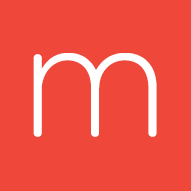
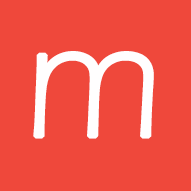
**UNSTABLE** Commit 15/08/04 - 更新了favicon - 更新了滑板车页面的部分内容 - 替换了导航栏、产品页2处深色背景灰 - 替换了部分使用的图片

diff --git a/public/huanbanche.html b/public/huanbanche.html
@@ -1,5 +1,41 @@
-{{> header }}
-<style type="text/css">
+<!DOCTYPE html>
+<html data-ember-extension="1">
+<head>
+	<meta http-equiv="Content-Type" content="text/html; charset=UTF-8">
+	<meta charset="utf-8">
+  <meta http-equiv="X-UA-Compatible" content="IE=edge">
+  <meta name="viewport" content="width=device-width, initial-scale=1">
+  <title>M.O.V.E-在脚下，不经意加速你的路途</title>
+	<link rel="stylesheet" type="text/css" href="stylesheets/bootstrap.min.css">
+	<link rel="stylesheet" type="text/css" href="stylesheets/jquery-ui.min.css">
+	<link rel="stylesheet" type="text/css" href="stylesheets/main.css">
+	<script type="text/javascript" src="javascripts/jquery-1.11.1.min.js"></script>
+	<script type="text/javascript" src="javascripts/jquery-ui.min.js"></script>
+	<script type="text/javascript" src="javascripts/bootstrap.min.js"></script>
+	<script type="text/javascript" src="javascripts/main.js"></script>	
+</head>
+<body>
+	<nav class="navbar navbar-default">
+	  <div class="container">
+	    <div class="navbar-header">
+	      <button type="button" class="navbar-toggle collapsed" data-toggle="collapse" data-target="#bs-example-navbar-collapse-1">
+	        <span class="sr-only">Toggle navigation</span>
+	        <span class="icon-bar"></span>
+	        <span class="icon-bar"></span>
+	        <span class="icon-bar"></span>
+	      </button>
+	      <a class="navbar-brand" href="http://127.0.0.1:3000/"></a>
+	    </div>
+	    <div class="collapse navbar-collapse" id="bs-example-navbar-collapse-1">
+	      <ul class="nav navbar-nav">
+	        <li><a href="./huanbanche_files/huanbanche.html">滑板车</a></li>
+	        <li><a href="http://127.0.0.1:3000/about">团队</a></li>
+	        <li><a href="http://127.0.0.1:3000/contact">联系我们</a></li>
+	      </ul>
+	    </div><!-- /.navbar-collapse -->
+	  </div><!-- /.container-fluid -->
+	</nav>
+	<div class="page-wrap"><style type="text/css">
 	.navbar-secondary .btn .plus{
 		padding: 8px;
 		background: url("/images/plus.png") 5px 12px no-repeat;
@@ -70,8 +106,8 @@
 	.article#article-4>.container{
 		padding-top: 105px;
 		padding-top: 7rem;
-		padding-bottom: 360px;
-		padding-bottom: 24rem;
+		padding-bottom: 240px;
+		padding-bottom: 16rem;
 	}
 	.article#article-4 p{
 		margin-top: 5px;
@@ -108,8 +144,7 @@
 		color: #fff;
 	}
 	.article#article-6 .bg .foreground{
-		background-color: rgba(48,52,59,0.95);
-		background-color: #30343b;
+		background-color: #333;
 	}
 	.article#article-7 .container{
 		padding-top: 75px;
@@ -166,8 +201,7 @@
 		color: #fff;
 	}
 	.article#article-8 .bg .foreground{
-		background-color: rgba(48,52,59,0.95);
-		background-color: #30343b;
+		background-color: #333;
 	}
 	.article#article-8 .bg .foreground .row .col-md-6, .article#article-6 .bg .foreground .row{
 		height: 100%;
@@ -215,17 +249,18 @@
 <div class="main">
 	<div class="article" id="jumbotron">
 		<div class="bg">
-			<img class="background" src="images/k1-jumbo.jpg"/>
+			<img class="background" src="./huanbanche_files/k1-jumbo.jpg" style="height: 777px; width: 1866px; left: -293px; top: -0.5px; display: inline;">
 			<div class="foreground"></div>
 			<div class="bg-items"></div>
 		</div>
 		<div class="container">
 			<div class="row">
-				<div class="col-md-5 col-md-offset-7">
+				<div class="col-md-6 col-md-offset-5">
 					<div class="title">
-						<h1>K1滑板车</h1>
-						<h4>从人的角度研发</h4>
+						<h1><strong>K1</strong>滑板车，从代驾的角度研发</h1>
 					</div>
+					<div class="divider"></div>
+					<p>短途代步，可携带上下班</p>
 				</div> 
 			</div>
 		</div>
@@ -236,15 +271,15 @@
 			  <div class="container">
 			    <div class="collapse navbar-collapse">
 			      <ul class="nav navbar-nav">
-			      	<li><a>续航</a><span>/</span></li>
-			      	<li><a>安全</a><span>/</span></li>
-			        <li><a>设计</a><span>/</span></li>
-			        <li><a>规格</a><span>/</span></li>
-			        <li><a>售后</a><span>/</span></li>
+			      	<li class=""><a>续航</a><span>/</span></li>
+			      	<li class=""><a>安全</a><span>/</span></li>
+			        <li class=""><a>设计</a><span>/</span></li>
+			        <li class=""><a>规格</a><span>/</span></li>
+			        <li class=""><a>售后</a><span>/</span></li>
 			        <li><a>FAQ</a></li>
 			      </ul>
 			      <ul class="nav navbar-nav navbar-right">
-			        <a href="#" class="btn btn-danger">购 买<span class="plus"></span></a>
+			        <a href="http://127.0.0.1:3000/huabanche#" class="btn btn-danger">购 买<span class="plus"></span></a>
 			      </ul>
 			    </div><!-- /.navbar-collapse -->
 			  </div>
@@ -265,15 +300,15 @@
 					</div>
 				</div>
 				<table class="table table-borderless">
-					<tr class="row">
+					<tbody><tr class="row">
 						<td style="vertical-align: bottom" colspan="2"><h1 style="font-weight: 200"><strong>78-90</strong>公里</h1></td>
-						<td class="col-md-4 col-md-offset-1" rowspan="2"><img class="img-responsive" src="images/k1-article1.png"/></td>
+						<td class="col-md-4 col-md-offset-1" rowspan="2"><img class="img-responsive" src="./huanbanche_files/k1-article1.png"></td>
 					</tr>
 					<tr class="row">
-						<td style="vertical-align: top; white-space: nowrap" ><span><strong style="font-weight: 100">超长续航</strong></span></td>
-						<td style="vertical-align: top; line-height: 25px;" ><span>续航长，选择23.4ah或27ah两种电池，分别续航78km和90km</span></td>
+						<td style="vertical-align: top; white-space: nowrap"><span><strong style="font-weight: 100">超长续航</strong></span></td>
+						<td style="vertical-align: top; line-height: 25px;"><span>续航长，选择23.4ah或27ah两种电池，分别续航78km和90km</span></td>
 					</tr>
-				</table>
+				</tbody></table>
 			</div>
 		</div>
 		<div class="article anchor-2" id="article-2">
@@ -284,7 +319,7 @@
 					<div class="container">
 						<div class="row">
 							<div class="col-md-12">
-								<img class="img-responsive" src="images/k1-article2.png"/>
+								<img class="img-responsive" src="./huanbanche_files/k1-article2.png">
 							</div>
 						</div>
 					</div>
@@ -306,7 +341,7 @@
 				</div>
 				<div class="row rotate-slider-container">
 					<div class="col-md-8 col-md-offset-2">
-						<div id="rotate-slider"></div>
+						<div id="rotate-slider" class="ui-slider ui-slider-horizontal ui-widget ui-widget-content ui-corner-all"><span class="ui-slider-handle ui-state-default ui-corner-all" tabindex="0" style="left: 0%;"></span></div>
 						<div class="rorate-slider-hint">拖动来旋转K1滑板车</div>
 					</div>
 				</div>
@@ -314,7 +349,7 @@
 		</div>
 		<div class="article article-narrow anchor-3" id="article-3">
 			<div class="bg">
-				<img class="background" src="images/k1-article3.jpg"/>
+				<img class="background" src="./huanbanche_files/k1-article3.jpg" style="height: 820px; width: 1853px; left: -286.5px; top: -0.5px; display: inline;">
 				<div class="foreground"></div>
 				<div class="bg-items"></div>
 			</div>
@@ -332,7 +367,7 @@
 		</div>
 		<div class="article" id="article-4">
 			<div class="bg">
-				<img class="background" src="images/k1-article4.jpg"/>
+				<img class="background" src="./huanbanche_files/k1-article4.jpg" style="height: 703px; width: 1748px; left: -234px; top: -0.5px; display: inline;">
 				<div class="foreground"></div>
 				<div class="bg-items"></div>
 			</div>
@@ -350,11 +385,20 @@
 						<p>一般滑板车不提供原厂座椅，需要购买者自行安装。K1滑板车为您省去麻烦。</p>
 					</div>
 				</div>
+				<div class="row">
+					<div class="col-md-12">
+						<div class="bubble">
+							<div class="inner">
+								<h4>原厂座椅</h4>
+							</div>
+						</div>
+					</div>
+				</div>
 			</div>
 		</div>
 		<div class="article" id="article-5">
 			<div class="bg">
-				<img class="background" src="images/k1-article5.jpg"/>
+				<img class="background" src="./huanbanche_files/k1-article5.jpg" style="height: 568px; width: 1411px; left: -65.5px; top: -0.5px; display: inline;">
 				<div class="foreground"></div>
 				<div class="bg-items"></div>
 			</div>
@@ -395,7 +439,7 @@
 		<div class="article" id="article-7">
 			<div class="bg">
 				<div class="foreground"></div>
-				<img class="background" src="images/k1-article7.jpg"/>
+				<img class="background" src="./huanbanche_files/k1-article7.jpg" style="height: 661px; width: 1494px; left: -107px; top: -0.5px; display: inline;">
 				<div class="bg-items"></div>
 			</div>
 			<div class="container">
@@ -432,7 +476,7 @@
 							<h2>产品规格</h2>
 						</div>				
 						<table class="table table-borderless">
-							<tr class="row">
+							<tbody><tr class="row">
 								<td class="col-md-6">重量（包含电池）</td>
 								<td class="col-md-6">1280克</td>
 							</tr>
@@ -464,7 +508,7 @@
 								<td class="col-md-6">最高海拔</td>
 								<td class="col-md-6">6000米</td>
 							</tr>
-						</table>
+						</tbody></table>
 					</div>
 				</div>
 			</div>
@@ -494,7 +538,7 @@
 		</div>
 		<div class="article article-narrow text-reverse anchor-6" id="article-10">
 			<div class="bg">
-				<img class="background" src="images/k1-article10.jpg"/>
+				<img class="background" src="./huanbanche_files/k1-article10.jpg" style="height: 265px; width: 1755px; left: -237.5px; top: -0.5px; display: inline;">
 			</div>
 			<div class="container">
 				<div class="row">
@@ -503,7 +547,7 @@
 							<h1>K1滑板车已经上架天猫、京东</h1>
 						</div>
 						<p>"Lorem ipsum dolor sit amet, consectetur adipiscing elit, sed do eiusmod tempor incididunt ut labore et dolore magna aliqua. Ut enim ad minim veniam, quis nostrud exercitation ullamco laboris nisi ut aliquip ex ea commodo consequat. "</p>
-						<a href="#" class="btn btn-danger">查看店面<span class="arrow"></span></a>
+						<a href="http://127.0.0.1:3000/huabanche#" class="btn btn-danger">查看店面<span class="arrow"></span></a>
 					</div>
 				</div>
 			</div>
@@ -576,4 +620,15 @@
 	});
 		
 </script>
-{{> footer }}
+	</div>
+	<footer>
+		<div class="article article-narrow">
+			<div class="container">
+				<h6>售后服务</h6>
+				<h4>400 919 0707</h4>
+				<h4>service@movetechs.com</h4>
+			</div>
+		</div>
+	</footer>
+</body>
+</html>

diff --git a/public/index.html b/public/index.html
@@ -1,0 +1,70 @@
+<!DOCTYPE html>
+<html>
+<head>
+	<meta charset="utf-8">
+  <meta http-equiv="X-UA-Compatible" content="IE=edge">
+  <meta name="viewport" content="width=device-width, initial-scale=1">
+  <title>M.O.V.E-在脚下，不经意加速你的路途</title>
+	<link rel="stylesheet" type="text/css" href="stylesheets/bootstrap.min.css">
+	<link rel="stylesheet" type="text/css" href="stylesheets/jquery-ui.min.css">
+	<link rel="stylesheet" type="text/css" href="stylesheets/main.css">
+	<script type="text/javascript" src="javascripts/jquery-1.11.1.min.js"></script>
+	<script type="text/javascript" src="javascripts/jquery-ui.min.js"></script>
+	<script type="text/javascript" src="javascripts/bootstrap.min.js"></script>
+	<script type="text/javascript" src="javascripts/main.js"></script>
+</head>
+<body>
+	<nav class="navbar navbar-default">
+	  <div class="container">
+	    <div class="navbar-header">
+	      <button type="button" class="navbar-toggle collapsed" data-toggle="collapse" data-target="#bs-example-navbar-collapse-1">
+	        <span class="sr-only">Toggle navigation</span>
+	        <span class="icon-bar"></span>
+	        <span class="icon-bar"></span>
+	        <span class="icon-bar"></span>
+	      </button>
+	      <a class="navbar-brand" href="/"></a>
+	    </div>
+	    <div class="collapse navbar-collapse" id="bs-example-navbar-collapse-1">
+	      <ul class="nav navbar-nav">
+	        <li><a href="/huabanche">滑板车</a></li>
+	        <li><a href="/about">团队</a></li>
+	        <li><a href="/contact">联系我们</a></li>
+	      </ul>
+	    </div><!-- /.navbar-collapse -->
+	  </div><!-- /.container-fluid -->
+	</nav>
+	<div class="page-wrap"><style type="text/css">
+.page-wrap{
+	margin-bottom: 0px;
+}
+.page-wrap:after{
+	height: 0px;
+}
+</style>
+<div class="main">
+	<div class="article article-full article-center">
+		<div class="bg">
+			<div class="background">
+				<video type="video/mp4" autoplay=true width=100% src="index.mp4" style="visibility: visible;"></video>
+			</div>
+			<div class="foreground"></div>
+			<div class="bg-items">
+				<div class="container">
+					<div class="row">
+						<div class="col-md-8 col-md-offset-2 hidden-xs">
+							<img class="img-responsive" src="images/home-1.png"/>
+						</div>
+					</div>
+				</div>
+			</div>
+		</div>
+		<div class="container">
+			<div class="row">
+			</div>
+		</div>
+	</div>
+</div>
+</div>
+</body>
+</html>

diff --git a/public/stylesheets/main.scss b/public/stylesheets/main.scss
@@ -15,6 +15,8 @@ $footer-height: 250px;
 /*color-palette*/
 $red: #ef483b;
 $red-hover: #f15a4e;
+$grey: rgba(48,52,59,0.95);
+$grey-fallback: #30343b;
 
 @mixin box-shadow($shadows) {
   -moz-box-shadow: $shadows;
@@ -331,8 +333,8 @@ nav.navbar{
 
 	/*default, lite, etc.. are only adjust styles*/
 	&.navbar-default{
-		background-color: #242424;
-		background-color: rgba(36,36,36,0.9);
+		background-color: $grey-fallback;
+		background-color: $grey;
 		@include box-shadow(none);
 
 		.navbar-brand, li>a{

diff --git a/public/stylesheets/main.css b/public/stylesheets/main.css
@@ -214,8 +214,8 @@ nav.navbar {
       nav.navbar.navbar-secondary.navbar-fixed .navbar-collapse {
         border-bottom: none; }
   nav.navbar.navbar-default {
-    background-color: #242424;
-    background-color: rgba(36, 36, 36, 0.9);
+    background-color: #30343b;
+    background-color: rgba(48, 52, 59, 0.95);
     -moz-box-shadow: none;
     -webkit-box-shadow: none;
     box-shadow: none; }
